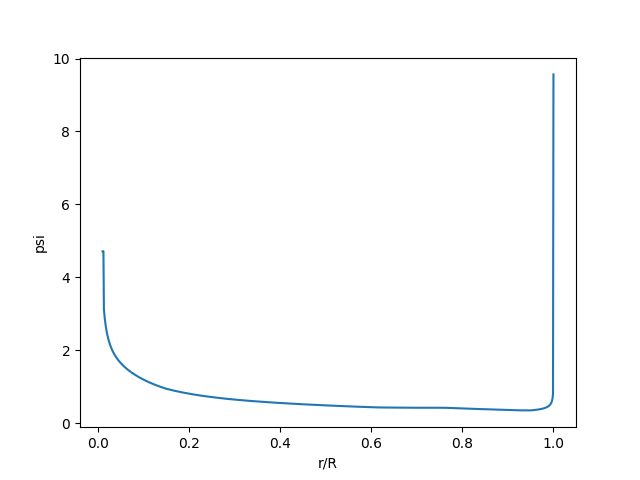
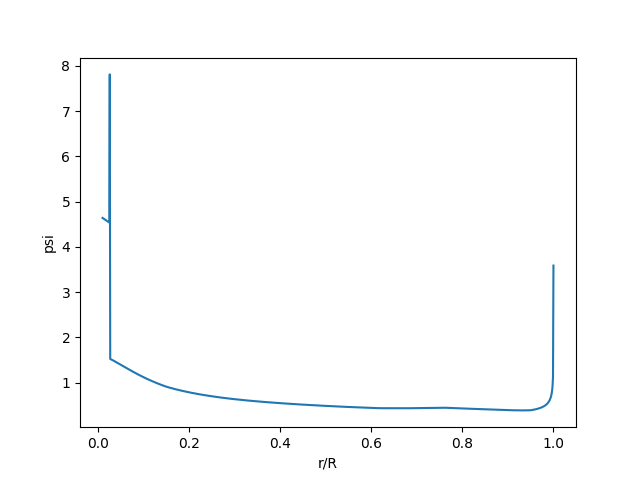
収束しなくなってしまった

diff --git a/perform_analysis_qprop.py b/perform_analysis_qprop.py
@@ -3,6 +3,9 @@ import matplotlib.pyplot as plt
 import math
 from scipy.optimize import fsolve
 from scipy.optimize import minimize
+# THIS IS A VERSION COMPLETELY SAME TO QPROP
+# ESPECIALLY FOR THE EQUATION
+
 # general inputs
 # for now, use the same values as in Kawasaki et.al, 2024 to validate the code
 R = 0.1143
@@ -16,9 +19,6 @@ V = 8.5
 n = 1000
 r_R = np.linspace(0.01, 1, n)
 r = r_R * R
-lamda = V / (omega * R)
-f = B / 2 * math.sqrt(lamda**2 + 1) / lamda * (1 - r_R)
-F = 2 / np.pi * np.arccos(np.exp(-f))
 
 # load gemoetry txt and interpolate it to r/R
 geometry = np.loadtxt('geometry.txt')
@@ -38,7 +38,7 @@ airfoil_cl = np.interp(alpha, airfoil_alpha, airfoil_cl)
 airfoil_cd = np.interp(alpha, airfoil_alpha, airfoil_cd)
 
 
-psis = np.zeros(len(r_R))
+psi = np.zeros(len(r_R))
 
 for i in range(len(r_R)):
     def equation(psi):
@@ -48,36 +48,44 @@ for i in range(len(r_R)):
         U = math.sqrt(Ua**2 + Ut**2)
         Wa = 1/2 * Ua + 1/2 * U * np.sin(psi)
         Wt = 1/2 * Ut + 1/2 * U * np.cos(psi)
-        W = np.sqrt(Wa**2 + Wt**2)
         va = Wa - Ua
         vt = Ut - Wt
         aoa = beta[i] - np.arctan(Wa / Wt)
+        W = np.sqrt(Wa**2 + Wt**2)
         cl = np.interp(aoa, alpha, airfoil_cl)
-        gamma = vt * 4 * math.pi * r / B * F[i]
+        lamda = r / R * Wa / Wt
+        f = B / 2 * (1 - r/R) / lamda
+        F = 2 / math.pi * np.arccos(np.clip(np.exp(-f), -1, 1))
+        gamma = vt * 4 * math.pi * r / B * F * np.sqrt(1 + (4 * lamda * R / (math.pi * B * r ))**2)
         c = c_R[i] * R
         return gamma - 1/2 * W * c * cl
-
-    psis[i] = fsolve(equation, 1)[0]
+    # initial guess for psi (from QPROP, Drela, 2007)
+    Ua = V
+    Ut = omega * r
+    initial_guess = np.maximum(np.arctan2(Ua, Ut), beta[i])
+    psi[i] = fsolve(equation, initial_guess)[0]
 
 # plot psi
-plt.plot(r_R, psis)
+plt.plot(r_R, psi)
 plt.xlabel('r/R')
 plt.ylabel('psi')
 plt.savefig('./debug/psi.png')
-
 
 r = r_R * R
 Ua = V
 Ut = omega * r
 U = np.sqrt(Ua**2 + Ut**2)
-Wa = 1/2 * Ua + 1/2 * U * np.sin(psis)
-Wt = 1/2 * Ut + 1/2 * U * np.cos(psis)
+Wa = 1/2 * Ua + 1/2 * U * np.sin(psi)
+Wt = 1/2 * Ut + 1/2 * U * np.cos(psi)
 W = np.sqrt(Wa**2 + Wt**2)
 va = Wa - Ua
 vt = Ut - Wt
 aoa = beta - np.arctan(Wa / Wt)
 cl = np.interp(aoa, alpha, airfoil_cl)
-gamma = vt * 4 * math.pi * r / B * F
+lamda = r / R * Wa / Wt
+f = B / 2 * (1 - r/R) / lamda
+F = 2 / math.pi * np.arccos(np.exp(-f))
+gamma = vt * 4 * math.pi * r / B * F * np.sqrt(1 + (4 * lamda * R / (math.pi * B * r ))**2)
 
 # plot gamma
 plt.clf()
